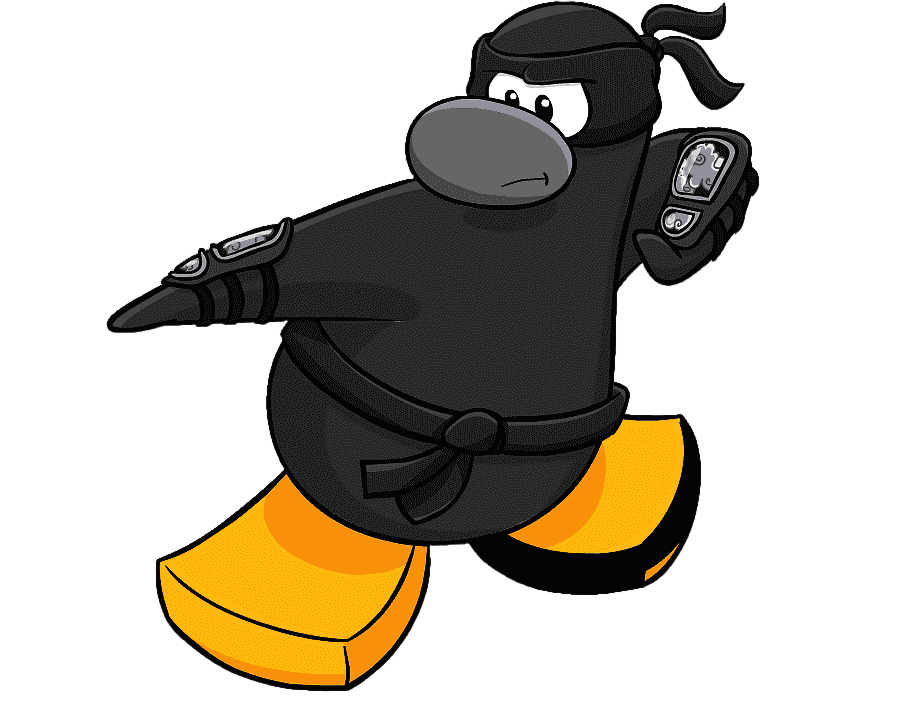
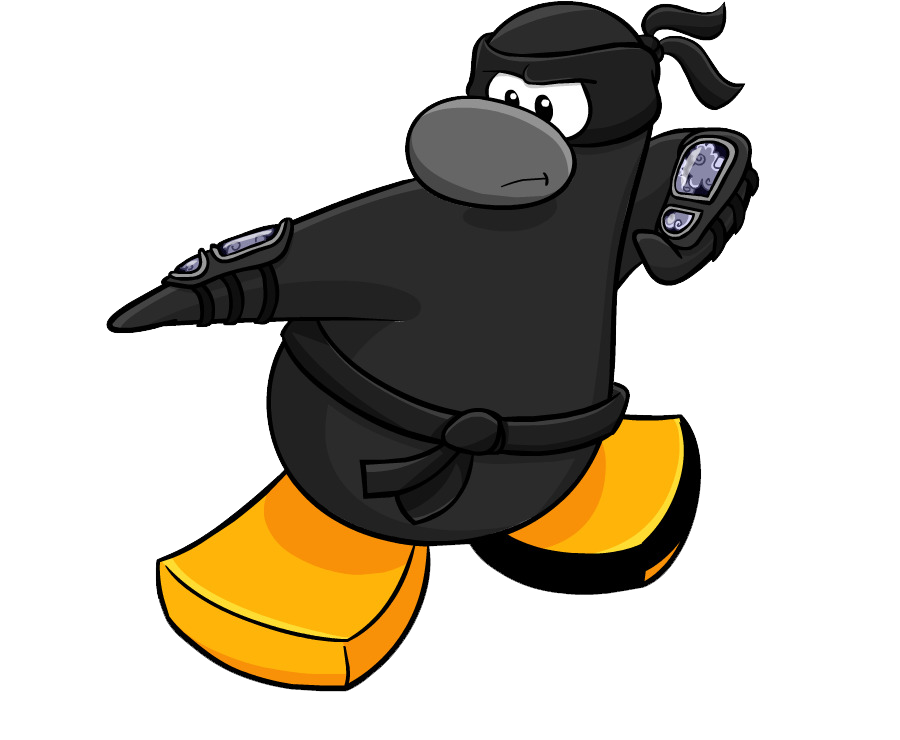
fundo de dojo

Changed region(s): [[0.0933, 0.0, 0.84, 0.967], [0.4356, 0.1511, 0.4667, 0.1813]]

diff --git a/src/pages/Luta/index.js b/src/pages/Luta/index.js
@@ -1,8 +1,7 @@
 import { StatusBar } from "expo-status-bar";
-import { SafeAreaView, Text, View, Image } from "react-native";
+import { SafeAreaView, Text, View, Image, TouchableOpacity, ImageBackground, ActivityIndicator} from "react-native";
 import styles from "./styles";
 import { useState } from "react";
-import { TouchableOpacity } from "react-native-web";
 
 export default function App() {
   const [jogador, setJogador] = useState(0);
@@ -202,6 +201,9 @@ export default function App() {
   }
   return (
     <SafeAreaView style={styles.container}>
+      <ImageBackground
+      source={require("../../../assets/img/fundos/dojo.png")}
+      style={styles.fotoFundo}>
       <View style={[styles.areaPlacar, styles.shadowAreaElementos]}>
         <View style={styles.areaEsqDir}>
         <View style={styles.areaFoto}>
@@ -317,6 +319,7 @@ export default function App() {
         </TouchableOpacity>
       </View>
       <StatusBar style="auto" />
+      </ImageBackground>
     </SafeAreaView>
   );
 }

diff --git a/src/pages/Home/index.js b/src/pages/Home/index.js
@@ -50,9 +50,9 @@ export default function App() {
           <Modal
           visible={isModalVisible1}
           onRequestClose={() => setIsModalVisible1(false)}
-          animationType='slide'
+          animationType='fade'
           presentationStyle='overFullScreen'
-          transparent='true'
+          transparent={true}
           >
             <View style={styles.modal}>
               <View style={styles.caixaModal}>

diff --git a/src/pages/Luta/styles.js b/src/pages/Luta/styles.js
@@ -4,7 +4,11 @@ export default StyleSheet.create({
     container: {
       flex: 1,
     },
-
+    fotoFundo: {
+        height: '100%',
+        width: '100%',
+        alignSelf: 'flex-start',
+    },
     //PLACAR
     areaPlacar: {
         flex: 1,
